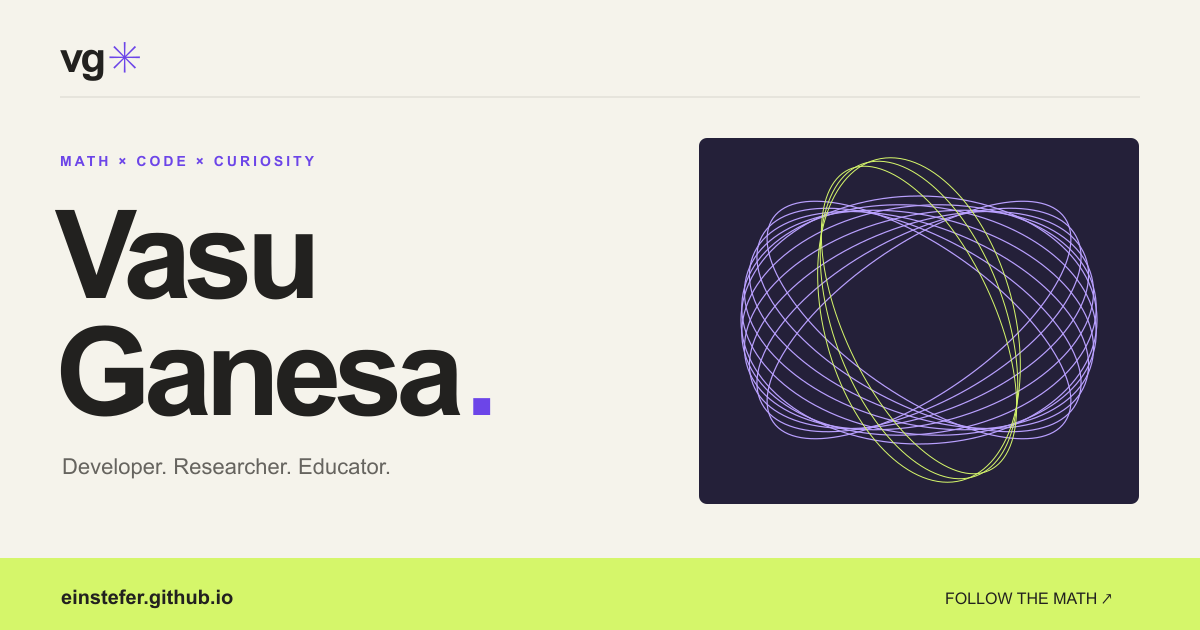
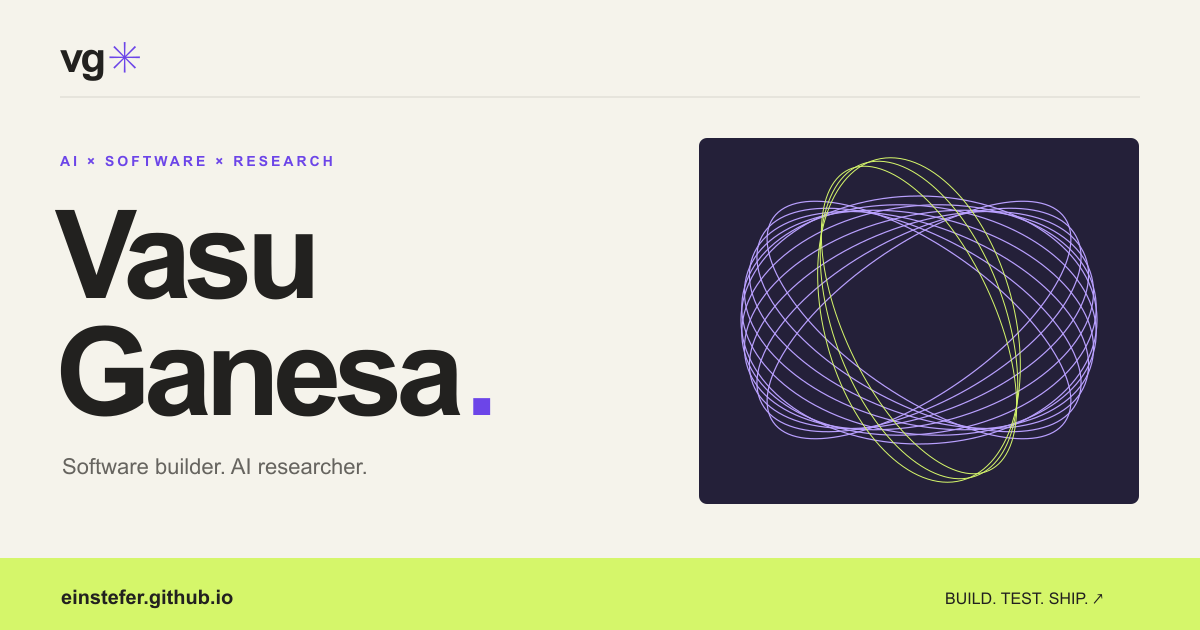
Focus portfolio on technical work and research publications

Changed region(s): [[0.0308, 0.7238, 0.3392, 0.754], [0.0308, 0.2413, 0.2775, 0.2714], [0.7708, 0.9349, 0.925, 0.9651]]

diff --git a/index.html b/index.html
@@ -4,9 +4,9 @@
   <meta charset="utf-8">
   <meta name="viewport" content="width=device-width, initial-scale=1">
   <meta name="theme-color" content="#f5f3eb">
-  <meta name="description" content="Vasu Ganesa — student developer, researcher, and educator exploring the intersection of AI, mathematics, and useful software.">
-  <meta property="og:title" content="Vasu Ganesa — Math × Code × Curiosity">
-  <meta property="og:description" content="Building useful tools. Asking better questions. Making math more accessible. Explore my projects, research, and work.">
+  <meta name="description" content="Vasu Ganesa — developer and AI researcher building Vexta, software tools, and machine learning research. Sole-author paper accepted to IEEE ICIIBMS 2026; published in JEI.">
+  <meta property="og:title" content="Vasu Ganesa — Software & AI Research">
+  <meta property="og:description" content="Building Vexta. Engineering at MIT CSAIL. Research in machine learning and LLM reasoning. Explore my software, technical work, and research.">
   <meta property="og:type" content="website">
   <meta property="og:url" content="https://einstefer.github.io/">
   <meta property="og:image" content="https://einstefer.github.io/assets/social-card.png">
@@ -17,7 +17,7 @@
   <link rel="preload" href="assets/dm-sans-latin.woff2" as="font" type="font/woff2" crossorigin>
   <link rel="stylesheet" href="styles.css">
   <script src="script.js" defer></script>
-  <title>Vasu Ganesa — Math × Code × Curiosity</title>
+  <title>Vasu Ganesa — Software & AI Research</title>
 </head>
 <body>
   <svg class="icon-defs" aria-hidden="true" xmlns="http://www.w3.org/2000/svg"><defs>
@@ -30,7 +30,7 @@
   <header class="site-header">
     <a class="wordmark" href="#home" aria-label="Vasu Ganesa, home">vg<span>✳</span></a>
     <nav aria-label="Main navigation" id="main-nav">
-      <a href="#work">Work</a><a href="#about">About</a><a href="#stack">Stack</a><a href="#journey">Journey</a>
+      <a href="#work">Work</a><a href="#research">Research</a><a href="#stack">Stack</a><a href="#journey">Experience</a>
     </nav>
     <a class="nav-contact" href="#contact">Let’s talk <svg class="icon"><use href="#arrow-up"/></svg></a>
     <button class="menu-button" aria-label="Open navigation" aria-expanded="false" aria-controls="main-nav"><span></span><span></span></button>
@@ -39,27 +39,27 @@
   <main id="main">
     <section class="hero section-shell" id="home" aria-labelledby="hero-title">
       <div class="hero-copy">
-        <p class="eyebrow"><span class="status-dot"></span> MATH × CODE × CURIOSITY</p>
+        <p class="eyebrow"><span class="status-dot"></span> AI × SOFTWARE × RESEARCH</p>
         <h1 id="hero-title">Vasu<br>Ganesa<span class="purple">.</span></h1>
-        <p class="hero-description">I build things, ask questions,<br>and <em>follow the math.</em></p>
-        <p class="hero-subtitle">Student developer, researcher, and educator.<br>Exploring AI. Making learning more accessible.</p>
-        <div class="hero-actions"><a class="button button-dark" href="#work">Explore my work <svg class="icon"><use href="#arrow"/></svg></a><a class="text-link" href="assets/vasu-ganesa-resume.pdf" target="_blank" rel="noopener">Résumé <svg class="icon"><use href="#arrow-up"/></svg></a></div>
+        <p class="hero-description">I build software.<br>I put ideas <em>to the test.</em></p>
+        <p class="hero-subtitle">Developer and AI researcher.<br>Building Vexta. Studying machine learning.</p>
+        <div class="hero-actions"><a class="button button-dark" href="#work">Explore my work <svg class="icon"><use href="#arrow"/></svg></a><a class="text-link" href="#research">View research <svg class="icon"><use href="#arrow-up"/></svg></a></div>
       </div>
       <div class="hero-art" aria-label="Interactive mathematical sculpture">
         <div class="art-topline"><span>THE CURIOSITY ENGINE</span><span>FIG. 001</span></div>
         <canvas id="curiosity-canvas" aria-label="Animated mathematical wireframe sculpture. Use the reshape and motion controls below.">A mathematical wireframe sculpture representing the intersection of math, code, and curiosity.</canvas>
         <div class="orbit-label orbit-label-one">mathematics <span>↗</span></div>
         <div class="orbit-label orbit-label-two">artificial intelligence <span>✳</span></div>
-        <div class="orbit-label orbit-label-three">things that help people <span>↗</span></div>
+        <div class="orbit-label orbit-label-three">software that ships <span>↗</span></div>
         <div class="art-bottomline"><span id="shape-name">01 / TORUS KNOT</span><div><button id="reshape" aria-label="Reshape the mathematical sculpture">Reshape ↻</button><button id="motion-toggle" aria-label="Pause sculpture animation" aria-pressed="false">Pause Ⅱ</button></div></div>
       </div>
-      <div class="hero-foot"><span>American High School · Class of 2027</span><a href="#work">A FEW THINGS I’VE BEEN WORKING ON <span>↓</span></a></div>
+      <div class="hero-foot research-proof-row"><a href="#research"><strong>IEEE ICIIBMS 2026</strong><span>Sole-author paper accepted ↗</span></a><a href="#research"><strong>JOURNAL OF EMERGING INVESTIGATORS</strong><span>Published LLM research ↗</span></a></div>
     </section>
 
-    <div class="ticker-viewport"><div class="ticker" aria-label="Developer. Researcher. Math enthusiast. Educator."><div aria-hidden="true">DEVELOPER <span>✳</span> RESEARCHER <span>✳</span> MATH ENTHUSIAST <span>✳</span> EDUCATOR <span>✳</span> ALWAYS CURIOUS <span>✳</span></div></div></div>
+    <div class="ticker-viewport"><div class="ticker" aria-label="Developer. Researcher. AI systems. Developer tools. Published research."><div aria-hidden="true">DEVELOPER <span>✳</span> RESEARCHER <span>✳</span> AI SYSTEMS <span>✳</span> DEVELOPER TOOLS <span>✳</span> PUBLISHED RESEARCH <span>✳</span></div></div></div>
 
     <section class="section-shell work-section" id="work" aria-labelledby="work-title">
-      <div class="section-heading"><div><p class="eyebrow">01 / SELECTED WORK</p><h2 id="work-title">Ideas, put to work<span class="purple">.</span></h2></div><p>From signals in the brain to tabs in a browser.<br>A few ways I turn curiosity into something real.</p></div>
+      <div class="section-heading"><div><p class="eyebrow">01 / SELECTED WORK</p><h2 id="work-title">Software built. Ideas tested<span class="purple">.</span></h2></div><p>Developer tools, machine learning, and full stack software.<br>From working products to published research.</p></div>
       <div class="filter-bar" role="group" aria-label="Filter projects"><button class="filter active" data-filter="all" aria-pressed="true">All work <span id="project-count">05</span></button><button class="filter" data-filter="research" aria-pressed="false">Research</button><button class="filter" data-filter="engineering" aria-pressed="false">Engineering</button></div>
       <p class="sr-only" id="filter-status" aria-live="polite"></p>
       <div class="projects-grid">
@@ -73,8 +73,8 @@
         </article>
         <article class="project" data-category="research">
           <button class="project-cover eeg-cover" data-project="eeg" aria-label="Read about P300 EEG research"><img src="assets/project-eeg.svg" width="720" height="430" alt="Abstract EEG signal traces and a subject matrix" loading="lazy"><span class="cover-label">RESEARCH / MACHINE LEARNING</span><span class="project-open" aria-hidden="true">↗</span></button>
-          <div class="project-meta"><span>UC DAVIS · 2026</span><span class="project-status">IEEE PAPER ACCEPTED</span></div>
-          <h3><button data-project="eeg">Finding the signal.</button></h3><p>Comparing 11 machine learning methods across 110 subjects to better understand P300 EEG classification.</p><div class="tags"><span>Machine learning</span><span>EEG / BCI</span><span>Statistical learning</span></div>
+          <div class="project-meta"><span>UC DAVIS · 2026</span><span class="project-status">IEEE ICIIBMS 2026 · ACCEPTED</span></div>
+          <h3><button data-project="eeg">P300 EEG classification.</button></h3><p>Sole-author paper accepted to IEEE ICIIBMS 2026. Evaluated 11 machine learning methods across 110 subjects for brain-computer interface research.</p><div class="tags"><span>Machine learning</span><span>EEG / BCI</span><span>Statistical learning</span></div>
         </article>
         <article class="project" data-category="engineering">
           <button class="project-cover" data-project="tracetree" aria-label="Read about TraceTree"><img src="assets/project-tracetree.svg" width="720" height="430" alt="Connected browser cards branching into a research tree" loading="lazy"><span class="cover-label">BUILD / CHROME EXTENSION</span><span class="project-open" aria-hidden="true">↗</span></button>
@@ -87,17 +87,20 @@
           <h3><button data-project="aime">Does the prompt matter?</button></h3><p>Testing how five prompting styles affect LLM accuracy on 60 AIME problems—with statistical tests, not guesswork.</p><div class="tags"><span>Python</span><span>NumPy</span><span>statsmodels</span></div>
         </article>
         <article class="project" data-category="engineering">
-          <button class="project-cover" data-project="games" aria-label="Read about Lift and Shift games"><img src="assets/project-games.svg" width="720" height="430" alt="Playful orange composition with a snake path, checkerboard, and tic-tac-toe shapes" loading="lazy"><span class="cover-label">BUILD / GAMES FOR GOOD</span><span class="project-open" aria-hidden="true">↗</span></button>
+          <button class="project-cover" data-project="games" aria-label="Read about Lift and Shift games"><img src="assets/project-games.svg" width="720" height="430" alt="Playful orange composition with a snake path, checkerboard, and tic-tac-toe shapes" loading="lazy"><span class="cover-label">BUILD / WEB & MOBILE</span><span class="project-open" aria-hidden="true">↗</span></button>
           <div class="project-meta"><span>LIFT & SHIFT</span><span class="live-label"><i></i> LIVE</span></div>
-          <h3><button data-project="games">A little play. A real purpose.</button></h3><p>Five interactive web games built through my internship, plus work on a cross-platform equine veterinary app launched on Google Play.</p><div class="tags"><span>JavaScript</span><span>HTML / CSS</span><span>Cloudflare Workers</span></div>
+          <h3><button data-project="games">From browser to mobile.</button></h3><p>Five interactive web games built through my internship, plus work on a cross-platform equine veterinary app launched on Google Play.</p><div class="tags"><span>JavaScript</span><span>HTML / CSS</span><span>Cloudflare Workers</span></div>
         </article>
       </div>
       <div class="work-bottom"><p>Check my hackathon projects at <a href="https://devpost.com/einstefer" target="_blank" rel="noopener">Devpost ↗</a></p><div><a class="text-link" href="https://github.com/einstefer" target="_blank" rel="noopener">More on GitHub <svg class="icon"><use href="#arrow-up"/></svg></a></div></div>
     </section>
 
-    <section class="about-section" id="about" aria-labelledby="about-title"><div class="section-shell about-layout">
-      <div class="about-intro"><p class="eyebrow">02 / THE PERSON BEHIND THE PROJECTS</p><h2 id="about-title">The best part?<br>There’s always<br><span class="lime">more to learn.</span></h2><div class="about-symbol" aria-hidden="true">✳</div></div>
-      <div class="about-copy"><p class="large-copy">I like the moment when an abstract idea becomes something someone can actually use.</p><p>That’s what connects my work in AI, math, and education. I build educational software at MIT CSAIL’s Kellis Lab, investigate machine learning methods for brain-computer interfaces with UC Davis, and study how language models handle competition math.</p><p>I also spend a lot of time teaching. As student CEO of Micro Lessons Academy, a MathCounts coach, and my school’s Math Club president, I help students find their own way into the subject.</p><p class="about-signoff">Build something. Learn something. Pass it on.</p><div class="about-stats"><div><strong>3×</strong><span>AIME qualifier</span></div><div><strong>11</strong><span>ML methods evaluated</span></div><div><strong>3</strong><span>states reached by math camp</span></div></div></div>
+    <section class="about-section research-section" id="research" aria-labelledby="research-title"><div class="section-shell about-layout">
+      <div class="about-intro"><p class="eyebrow">02 / RESEARCH & PUBLICATIONS</p><h2 id="research-title">Build it.<br>Test it.<br><span class="lime">Back it up.</span></h2><p class="research-intro">My research spans brain-computer interfaces, machine learning, and the mathematical reasoning of large language models.</p><div class="about-symbol" aria-hidden="true">✳</div></div>
+      <div class="about-copy publication-list">
+        <article class="publication"><div class="publication-meta"><span>P300 EEG / MACHINE LEARNING</span><span class="publication-badge">ACCEPTED</span></div><h3>IEEE ICIIBMS 2026.<br>Sole-author paper accepted.</h3><p>Evaluated 11 machine learning methods across 110 subjects for P300 EEG classification with Dr. Xiucai Ding at UC Davis. Applied statistical learning, dimensionality reduction, and deep learning to biomedical data for brain-computer interfaces.</p><button class="text-link" data-project="eeg">Explore the research <svg class="icon"><use href="#arrow-up"/></svg></button></article>
+        <article class="publication"><div class="publication-meta"><span>JOURNAL OF EMERGING INVESTIGATORS</span><span class="publication-badge">PUBLISHED</span></div><h3>Evaluating the impact of prompting styles on LLM accuracy for AIME math questions</h3><p>Co-authored with Lars Holdijk. Tested three LLMs and five prompting strategies across 60 AIME problems, using Python evaluation pipelines and statistical significance testing.</p><a class="text-link" href="https://emerginginvestigators.org/articles/25-137" target="_blank" rel="noopener">Read the published paper <svg class="icon"><use href="#arrow-up"/></svg></a></article>
+      </div>
     </div></section>
 
     <section class="section-shell stack-section" id="stack" aria-labelledby="stack-title"><div class="section-heading"><div><p class="eyebrow">03 / MY TOOLKIT</p><h2 id="stack-title">Built with a bit of everything<span class="purple">.</span></h2></div><p>The languages, frameworks, and tools<br>I use to get from an idea to a working thing.</p></div>
@@ -110,7 +113,7 @@
       <div class="stack-note"><span class="purple">✳</span><p>The stack changes. The habit of figuring things out stays.</p></div>
     </section>
 
-    <section class="section-shell journey-section" id="journey" aria-labelledby="journey-title"><div class="section-heading"><div><p class="eyebrow">04 / THE JOURNEY SO FAR</p><h2 id="journey-title">A few places I’ve grown<span class="purple">.</span></h2></div><a class="text-link" href="assets/vasu-ganesa-resume.pdf" download>Download résumé <svg class="icon"><use href="#download"/></svg></a></div>
+    <section class="section-shell journey-section" id="journey" aria-labelledby="journey-title"><div class="section-heading"><div><p class="eyebrow">04 / ENGINEERING & RESEARCH EXPERIENCE</p><h2 id="journey-title">Where I’ve built and researched<span class="purple">.</span></h2></div><a class="text-link" href="https://github.com/einstefer" target="_blank" rel="noopener">Explore my code <svg class="icon"><use href="#arrow-up"/></svg></a></div>
       <div class="timeline">
         <details open><summary><span class="timeline-date">JUN 2026 — PRESENT</span><span class="timeline-name"><strong>MIT CSAIL · Kellis Lab</strong><span>Full Stack Machine Learning Engineer</span></span><span class="timeline-type">ENGINEERING</span><span class="details-icon" aria-hidden="true"></span></summary><div class="timeline-body"><p>Developed eight features across Mantis AI and MantisGPT, AI-powered educational data exploration tools.</p><ul><li>Built multi-file CSV/XLSX ingestion and enhanced data visualizations.</li><li>Improved UI/UX and performance for educational data analysis.</li></ul></div></details>
         <details><summary><span class="timeline-date">APR 2026 — PRESENT</span><span class="timeline-name"><strong>UC Davis · Department of Statistics</strong><span>Research Assistant to Dr. Xiucai Ding</span></span><span class="timeline-type">RESEARCH</span><span class="details-icon" aria-hidden="true"></span></summary><div class="timeline-body"><p>Analyzed high-dimensional biomedical and EEG datasets for a brain-computer interface project supported by an NSF grant and a UC Davis medical team.</p><ul><li>Evaluated 11 machine learning methods for P300 EEG classification across 110 subjects.</li><li>Applied statistical learning, dimensionality reduction, and deep learning.</li><li>Sole-author paper accepted to IEEE ICIIBMS 2026.</li></ul></div></details>
@@ -121,23 +124,10 @@
       </div>
     </section>
 
-    <section class="community-section"><div class="section-shell"><div class="section-heading"><div><p class="eyebrow">05 / PASSING IT ON</p><h2>Math is better together<span class="purple">.</span></h2></div><p>Teaching, mentoring, and making room<br>for the next curious person.</p></div>
-      <div class="community-grid">
-        <article class="community-card camp-card"><span class="community-number">01</span><p class="eyebrow">AUG 2023 — PRESENT</p><h3>Micro Lessons<br>Academy</h3><p class="community-role">Math Tutor → Student CEO</p><p>From volunteer tutoring to leading outreach, curriculum, and recruitment. Created the first Summer Math Camp, reaching approximately 46 students across California, Oregon, and Washington.</p><p>Led weekly AMC 8 preparation for 50 regular attendees; reached out to approximately 27 libraries by phone and 235 by email.</p><div class="community-metric"><strong>3 states.</strong><span>One shared curiosity.</span></div></article>
-        <article class="community-card"><span class="community-number">02</span><p class="eyebrow">JAN 2023 — PRESENT</p><h3>Thornton Junior High</h3><p class="community-role">MathCounts Volunteer Coach</p><p>Helped coach 40 students selected from 275 sign-ups and 261 screening participants. Fourteen advanced to the Fremont Chapter Competition, earning three top-10 individual finishes among 70+ competitors.</p><p>Coached the four-person team to second place at the chapter competition—and the school’s first state qualification.</p><div class="community-metric"><strong>First-ever.</strong><span>State qualification for Thornton.</span></div></article>
-        <article class="community-card"><span class="community-number">03</span><p class="eyebrow">AUG 2023 — PRESENT</p><h3>American High School</h3><p class="community-role">Math Club President</p><p>Created weekly lessons, slides, and practice materials for 50+ students. Managed BMT and SMT preparation and contest logistics involving 100 attendees.</p><p>Organized events and outreach to grow the school’s competition math community.</p></article>
-        <article class="community-card library-card"><span class="community-number">04</span><p class="eyebrow">AUG 2024 — PRESENT</p><h3>Hayward Library</h3><p class="community-role">Volunteer Math Tutor</p><p>Weekly, free middle-school math support: homework help, foundational skills, and problem-solving. Supported 300+ students through recurring library tutoring sessions.</p><div class="community-metric"><strong>Open doors.</strong><span>Accessible math support.</span></div></article>
-      </div>
-    </div></section>
-
-    <section class="section-shell education-section" aria-labelledby="education-title"><div class="education-block"><p class="eyebrow">06 / FOUNDATIONS</p><h2 id="education-title">Always a student<span class="purple">.</span></h2><h3>American High School</h3><p>Class of 2027 · <strong>3.97</strong> unweighted GPA</p><div class="course"><span>01</span><div><strong>Multivariable Calculus</strong><p>Mission College · Completed with an A</p></div></div><div class="course"><span>02</span><div><strong>Linear Algebra</strong><p>West Valley College · In progress</p></div></div><div class="test-scores"><span>SAT <strong>1540</strong><small>/ 1600 · 800 Math</small></span><span>PSAT <strong>1510</strong><small>/ 1520 · 760 Math</small></span></div></div>
-      <div class="honors-block"><p class="eyebrow">A FEW MILESTONES</p><div class="honor-feature"><span aria-hidden="true">✳</span><div><h3>USAJMO Qualifier</h3><p>United States of America Junior Mathematical Olympiad</p></div></div><div class="honor-row"><span>AMC 10 A & B</span><strong>Distinguished Honor Roll <small>Top 1%</small></strong></div><div class="honor-row"><span>AMC 12 A & B</span><strong>Honor Roll <small>Top 5%</small></strong></div><div class="honor-row"><span>AIME</span><strong>3× Qualifier</strong></div><div class="honor-row"><span>IEEE ICIIBMS 2026</span><strong>Sole-author paper accepted</strong></div><div class="honor-row"><span>Journal of Emerging Investigators</span><a href="https://emerginginvestigators.org/articles/25-137" target="_blank" rel="noopener">Published research ↗</a></div></div>
-    </section>
-
-    <section class="contact-section" id="contact" aria-labelledby="contact-title"><div class="section-shell"><p class="eyebrow"><span class="status-dot"></span> GOT A QUESTION, AN IDEA, OR A GOOD MATH PROBLEM?</p><div class="contact-main"><h2 id="contact-title">Let’s make<br><span>something</span> click.</h2><a class="contact-arrow" href="mailto:einstefer@gmail.com" aria-label="Email Vasu Ganesa"><svg class="icon"><use href="#arrow-up"/></svg></a></div><div class="contact-bottom"><div class="email-group"><a href="mailto:einstefer@gmail.com">einstefer@gmail.com</a><button id="copy-email" aria-label="Copy email address">Copy ↗</button><span id="copy-status" role="status" class="sr-only"></span></div><div class="social-links"><a href="https://github.com/einstefer" target="_blank" rel="noopener">GitHub ↗</a><a href="https://www.linkedin.com/in/vasuganesa" target="_blank" rel="noopener">LinkedIn ↗</a><a href="https://devpost.com/einstefer" target="_blank" rel="noopener">Devpost ↗</a></div></div></div></section>
+    <section class="contact-section" id="contact" aria-labelledby="contact-title"><div class="section-shell"><p class="eyebrow"><span class="status-dot"></span> BUILDING SOMETHING AMBITIOUS? LET’S TALK.</p><div class="contact-main"><h2 id="contact-title">Let’s make<br><span>something</span> click.</h2><a class="contact-arrow" href="mailto:einstefer@gmail.com" aria-label="Email Vasu Ganesa"><svg class="icon"><use href="#arrow-up"/></svg></a></div><div class="contact-bottom"><div class="email-group"><a href="mailto:einstefer@gmail.com">einstefer@gmail.com</a><button id="copy-email" aria-label="Copy email address">Copy ↗</button><span id="copy-status" role="status" class="sr-only"></span></div><div class="social-links"><a href="https://github.com/einstefer" target="_blank" rel="noopener">GitHub ↗</a><a href="https://www.linkedin.com/in/vasuganesa" target="_blank" rel="noopener">LinkedIn ↗</a><a href="https://devpost.com/einstefer" target="_blank" rel="noopener">Devpost ↗</a></div></div></div></section>
   </main>
   <footer class="section-shell"><a class="wordmark" href="#home" aria-label="Back to top">vg<span>✳</span></a><p>© <span id="year">2026</span> Vasu Ganesa · Made with curiosity.</p><a href="#home">BACK TO TOP ↑</a></footer>
   <dialog id="project-dialog" aria-labelledby="dialog-title"><button class="dialog-close" aria-label="Close project details">×</button><div id="dialog-content"></div></dialog>
-  <noscript><style>.project-cover{cursor:default}.menu-button{display:none}.filter-bar{display:none} @media(max-width:760px){#main-nav{display:flex;position:static;width:auto;padding:0;background:none;gap:12px;font-size:12px}.nav-contact{display:none}}</style><p class="noscript-note">Interactive project details need JavaScript. You can still explore the résumé, experience, and project links on GitHub.</p></noscript>
+  <noscript><style>.project-cover{cursor:default}.menu-button{display:none}.filter-bar{display:none} @media(max-width:760px){#main-nav{display:flex;position:static;width:auto;padding:0;background:none;gap:12px;font-size:12px}.nav-contact{display:none}}</style><p class="noscript-note">Interactive project details need JavaScript. You can still explore the research, experience, and project links on GitHub.</p></noscript>
 </body>
 </html>

diff --git a/styles.css b/styles.css
@@ -25,3 +25,5 @@
 @media(max-width:1100px){.vexta-cover{padding:33px 35px;gap:35px;min-height:330px}.flow-line{font-size:10px}.vexta-caption{font-size:7px}.vexta-logo{font-size:52px}}
 @media(max-width:760px){.vexta-cover{display:block;padding:27px 26px}.vexta-logo{font-size:51px;margin-top:20px}.vexta-tagline{font-size:23px}.vexta-caption{margin-top:20px;font-size:7px}.vexta-flow{margin:28px 6px 28px 0;max-width:100%}.flow-line{font-size:11px;padding:12px 0}.featured-description{display:block}.featured-description>div:last-child{padding-top:0}.featured-description p{font-size:13px;margin:11px 0 15px}.project-featured{margin-bottom:0}.vexta-intro>.eyebrow{font-size:8px}.vexta-cover .project-open{bottom:15px;right:15px}}
 @media(min-width:550px) and (max-width:760px){.vexta-cover{display:flex;gap:30px}.vexta-flow{margin:0}.vexta-caption{font-size:6px}.flow-line{font-size:9px;margin:0 15px;gap:8px}.flow-top{padding:14px}.flow-top>span{font-size:6px}}
+.hero-foot.research-proof-row{justify-content:flex-start;gap:56px;padding-top:35px;padding-bottom:33px}.research-proof-row>a{display:flex;align-items:flex-start;gap:4px;flex-direction:column;letter-spacing:0}.research-proof-row>a strong{font-size:9px;letter-spacing:.8px;color:var(--purple)}.research-proof-row>a span{font-size:12px;font-weight:500;color:var(--ink)}.research-proof-row>a:hover span{text-decoration:underline;text-underline-offset:4px}.research-intro{font-size:15px;line-height:1.8;color:#c3c0b8;max-width:340px;margin-top:26px}.publication+.publication{border-top:1px solid #4d4b44;margin-top:29px;padding-top:29px}.publication-meta{display:flex;justify-content:space-between;gap:16px;align-items:center;font-size:9px;letter-spacing:.6px;font-weight:600;color:#c3c0b8;margin-bottom:16px}.publication-badge{color:var(--lime);border:1px solid #6a7e3d;border-radius:3px;padding:3px 7px;font-size:8px;white-space:nowrap}.publication h3{font-size:27px;line-height:1.3;letter-spacing:-.7px;font-weight:500;color:var(--paper)}.publication>p{color:#c3c0b8;font-size:13px;line-height:1.85;margin-top:15px}.publication .text-link{background:none;padding:5px 0;border-bottom:1px solid var(--lime);color:var(--lime);margin-top:16px}.publication .text-link:hover{color:var(--paper);border-color:var(--paper)}.publication .text-link:focus-visible{outline-color:var(--lime)}
+@media(max-width:760px){.hero-foot.research-proof-row{gap:17px;display:grid;grid-template-columns:1fr 1fr;padding:25px 0 24px}.research-proof-row>a strong{font-size:8px;line-height:1.6;letter-spacing:.4px}.research-proof-row>a span{font-size:10px;line-height:1.6}.research-intro{font-size:13px;max-width:75%;margin-top:20px}.research-section .about-symbol{font-size:57px;right:0;bottom:0}.publication h3{font-size:24px}.publication-meta{font-size:8px;gap:13px;letter-spacing:.3px}.publication-badge{font-size:7px}.publication>p{font-size:13px}.research-section .about-layout{gap:38px}}

diff --git a/script.js b/script.js
@@ -46,8 +46,8 @@ const projects = {
     links: [['Explore Vexta', 'https://vextaapi.com']]
   },
   eeg: {
-    eyebrow: 'UC DAVIS / MACHINE LEARNING RESEARCH',
-    title: 'Finding the signal in EEG.',
+    eyebrow: 'IEEE ICIIBMS 2026 / SOLE-AUTHOR PAPER ACCEPTED',
+    title: 'P300 EEG classification.',
     image: 'assets/project-eeg.svg',
     paragraphs: [
       'As a research assistant to Dr. Xiucai Ding in the UC Davis Department of Statistics, I analyzed high-dimensional biomedical and EEG datasets for a brain-computer interface project backed by a UC Davis medical team and supported by an NSF grant.',
@@ -55,7 +55,7 @@ const projects = {
       'My sole-author research paper was accepted to IEEE ICIIBMS 2026.'
     ],
     tags: ['P300 EEG', 'Brain-computer interfaces', 'Statistical learning', 'Deep learning'],
-    links: [['View my résumé', 'assets/vasu-ganesa-resume.pdf']]
+    links: [['IEEE ICIIBMS 2026 conference', 'https://www.iciibms.org/']]
   },
   tracetree: {
     eyebrow: 'TRACETREE / CHROME EXTENSION',
@@ -83,7 +83,7 @@ const projects = {
   },
   games: {
     eyebrow: 'LIFT & SHIFT / FULL STACK DEVELOPMENT',
-    title: 'Play, built for a purpose.',
+    title: 'From browser to mobile.',
     image: 'assets/project-games.svg',
     paragraphs: [
       'Through my Full Stack Web Development internship at Lift & Shift, I developed the foundation’s games website and implemented five interactive web games using Python, JavaScript, HTML, and CSS.',

diff --git a/README.md b/README.md
@@ -2,7 +2,7 @@
 
 Live site: **https://einstefer.github.io/**
 
-A responsive, buildless portfolio with an interactive mathematical sculpture, filterable project work, project detail dialogs, research and experience, technical stack, community work, education, honors, and a downloadable résumé.
+A responsive, buildless portfolio with an interactive mathematical sculpture, filterable project work, project detail dialogs, technical projects, a dedicated research and publications section, engineering experience, and a verified technical stack. The portfolio emphasizes software building and research for a startup audience.
 
 ## Run locally
 
@@ -19,7 +19,7 @@ Open `http://localhost:4173`. No package installation or build is required.
 - **`index.html`**: page content, links, experience, skills, project cards, and metadata.
 - **`script.js`**: the `projects` object contains project detail text and links. Also contains the sculpture, filters, menu, dialog, and email-copy behavior.
 - **`styles.css`**: colors, typography, layouts, and breakpoints.
-- **`assets/vasu-ganesa-resume.pdf`**: replace with a new résumé using the same filename.
+- **`assets/vasu-ganesa-resume.pdf`**: original résumé retained as a source asset; the focused portfolio does not link to this broader counselor résumé.
 - **`assets/social-card.png`**: social sharing preview; editable vector source is `assets/social-card.svg`.
 
 When adding a project, add its card to `index.html`, its entry to `projects` in `script.js`, and update the All work count. Keep profile links and email synchronized in the footer and project details as applicable.
@@ -32,7 +32,7 @@ Official documentation: [Creating a GitHub Pages site](https://docs.github.com/e
 
 ## Content and design notes
 
-The supplied résumé is the source for education, experience, honors, and volunteering. Present-tense roles and courses reflect that résumé and should be updated as they change. The IEEE paper is described as **accepted**, and the LLM study is described as published. Research with Lars Holdijk is not presented as employment by Oxford.
+The supplied résumé is the source for engineering and research experience. Present-tense roles reflect that résumé and should be updated as they change. Nontechnical volunteering, coaching, school-club roles, test scores, and general education sections are omitted from the site. The IEEE paper is prominently described as **accepted**, and the LLM study is described as published. The [official conference dates](https://www.iciibms.org/important-dates.html) are November 21–24, 2026; no public IEEE Xplore entry was verified on October 12, 2026. Research with Lars Holdijk is not presented as employment by Oxford.
 
 Additional public project sources:
 
